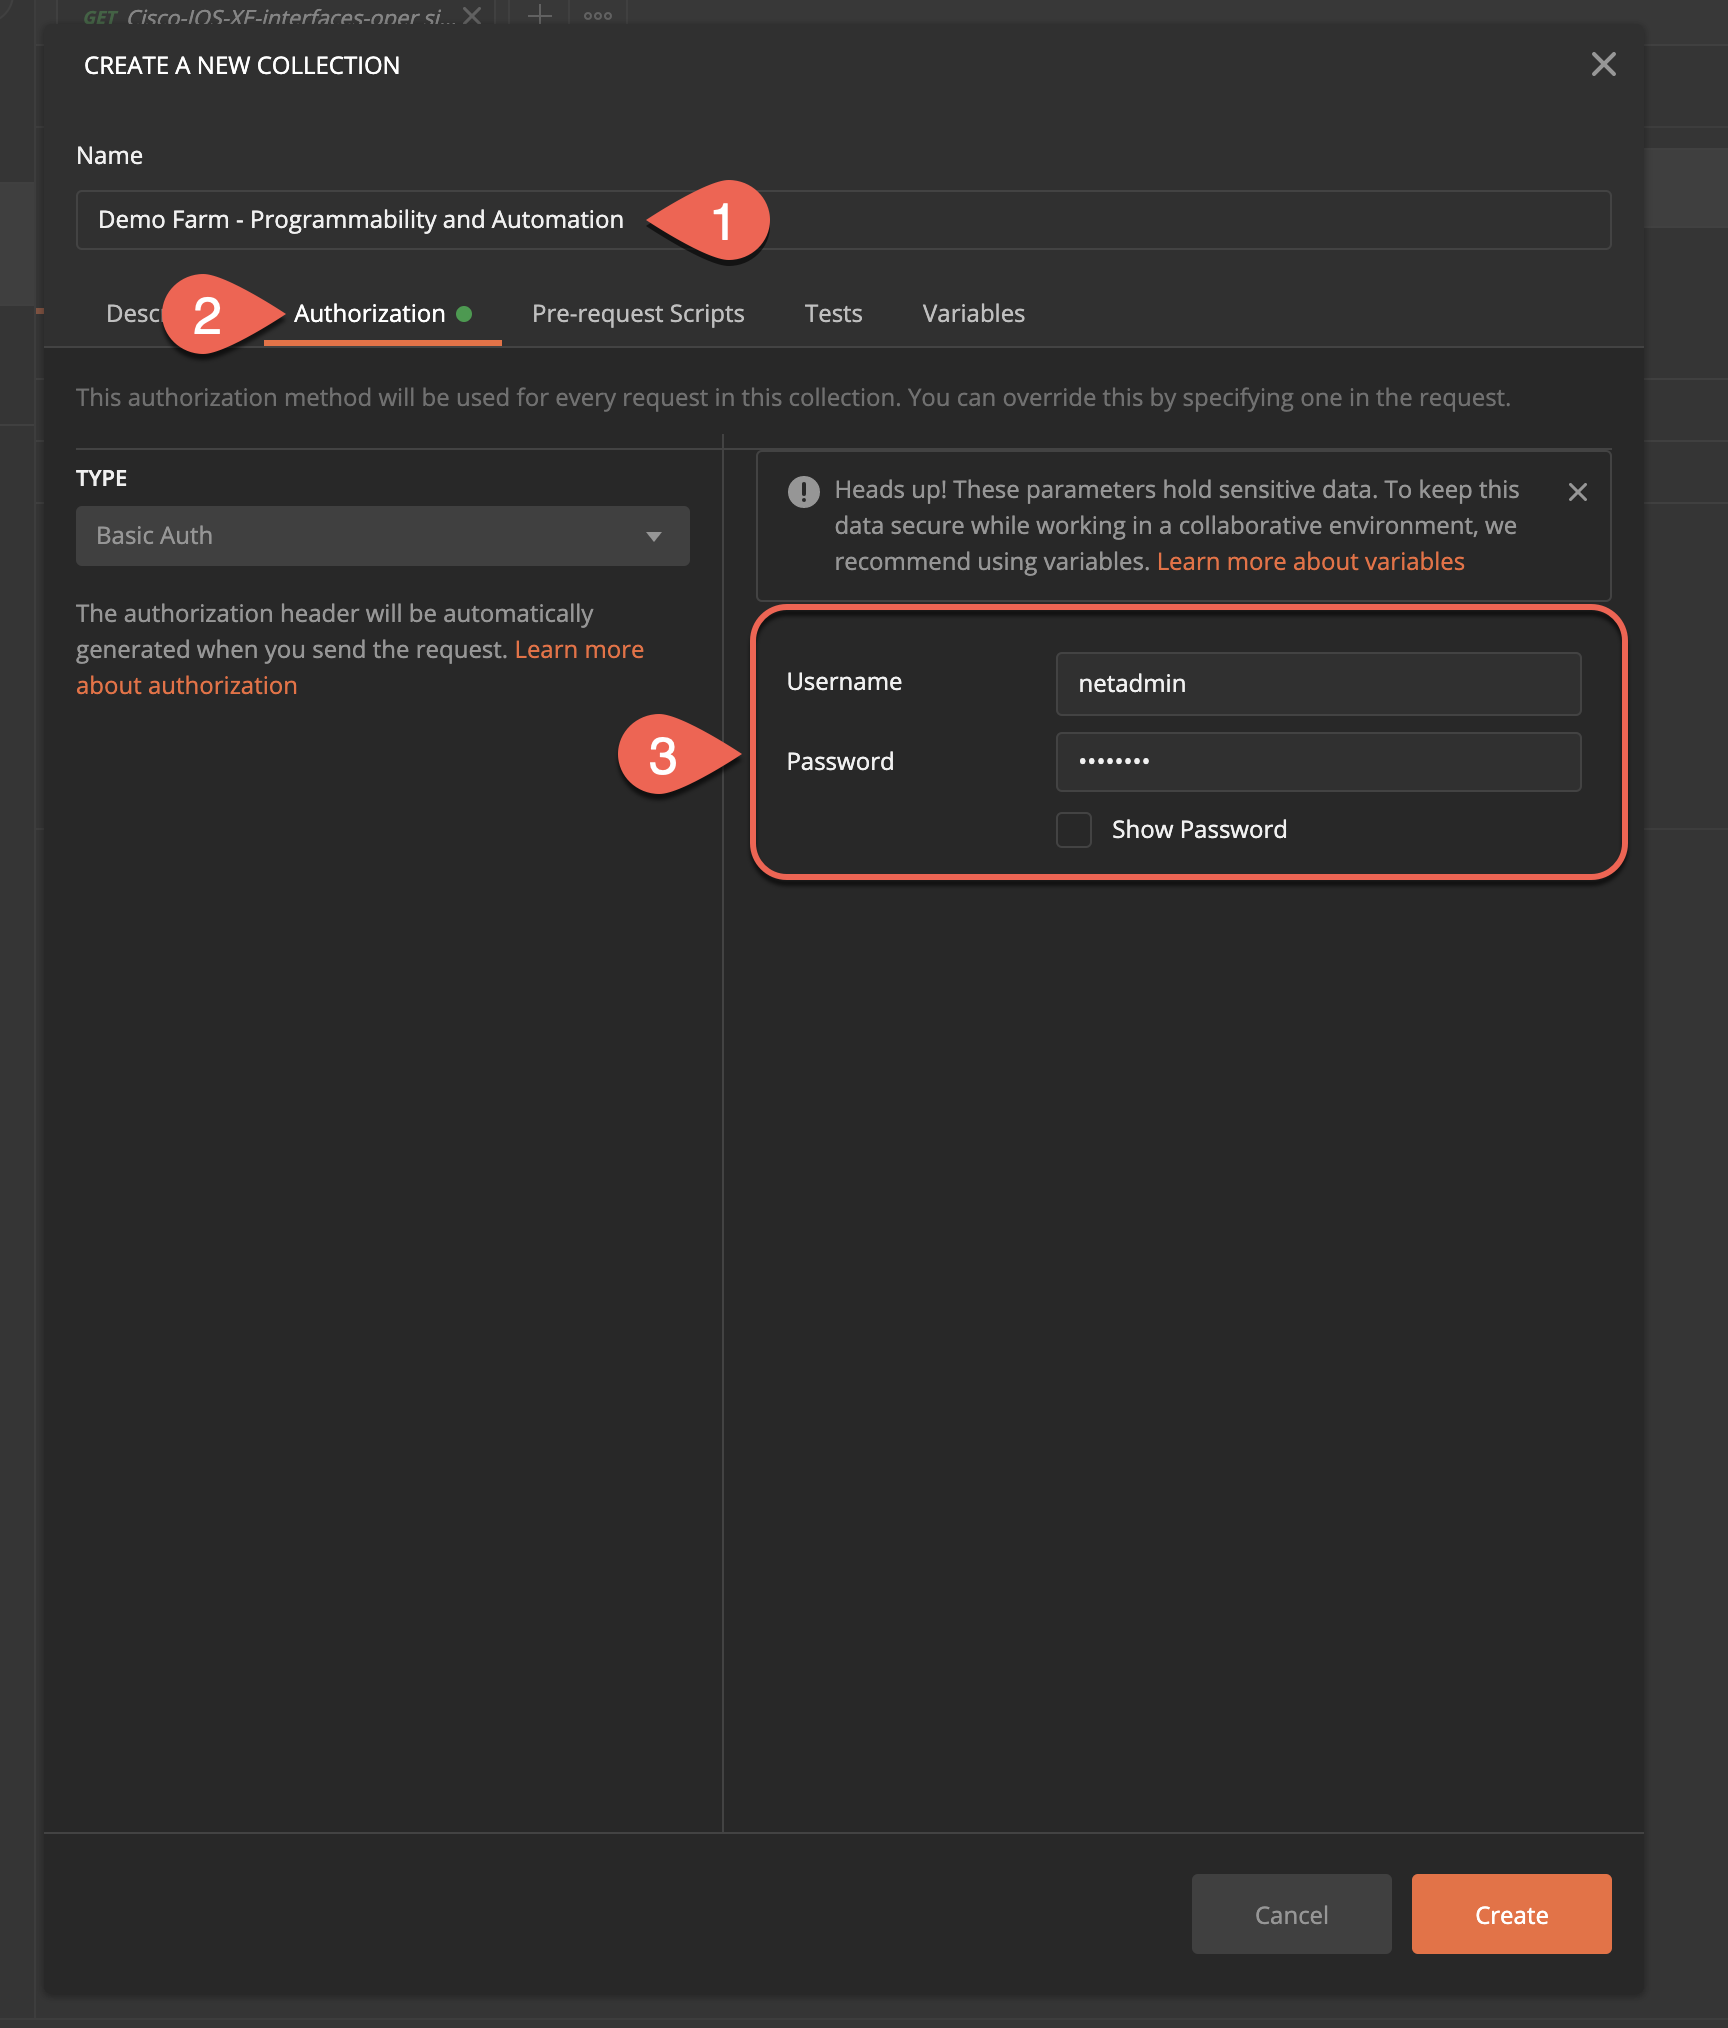
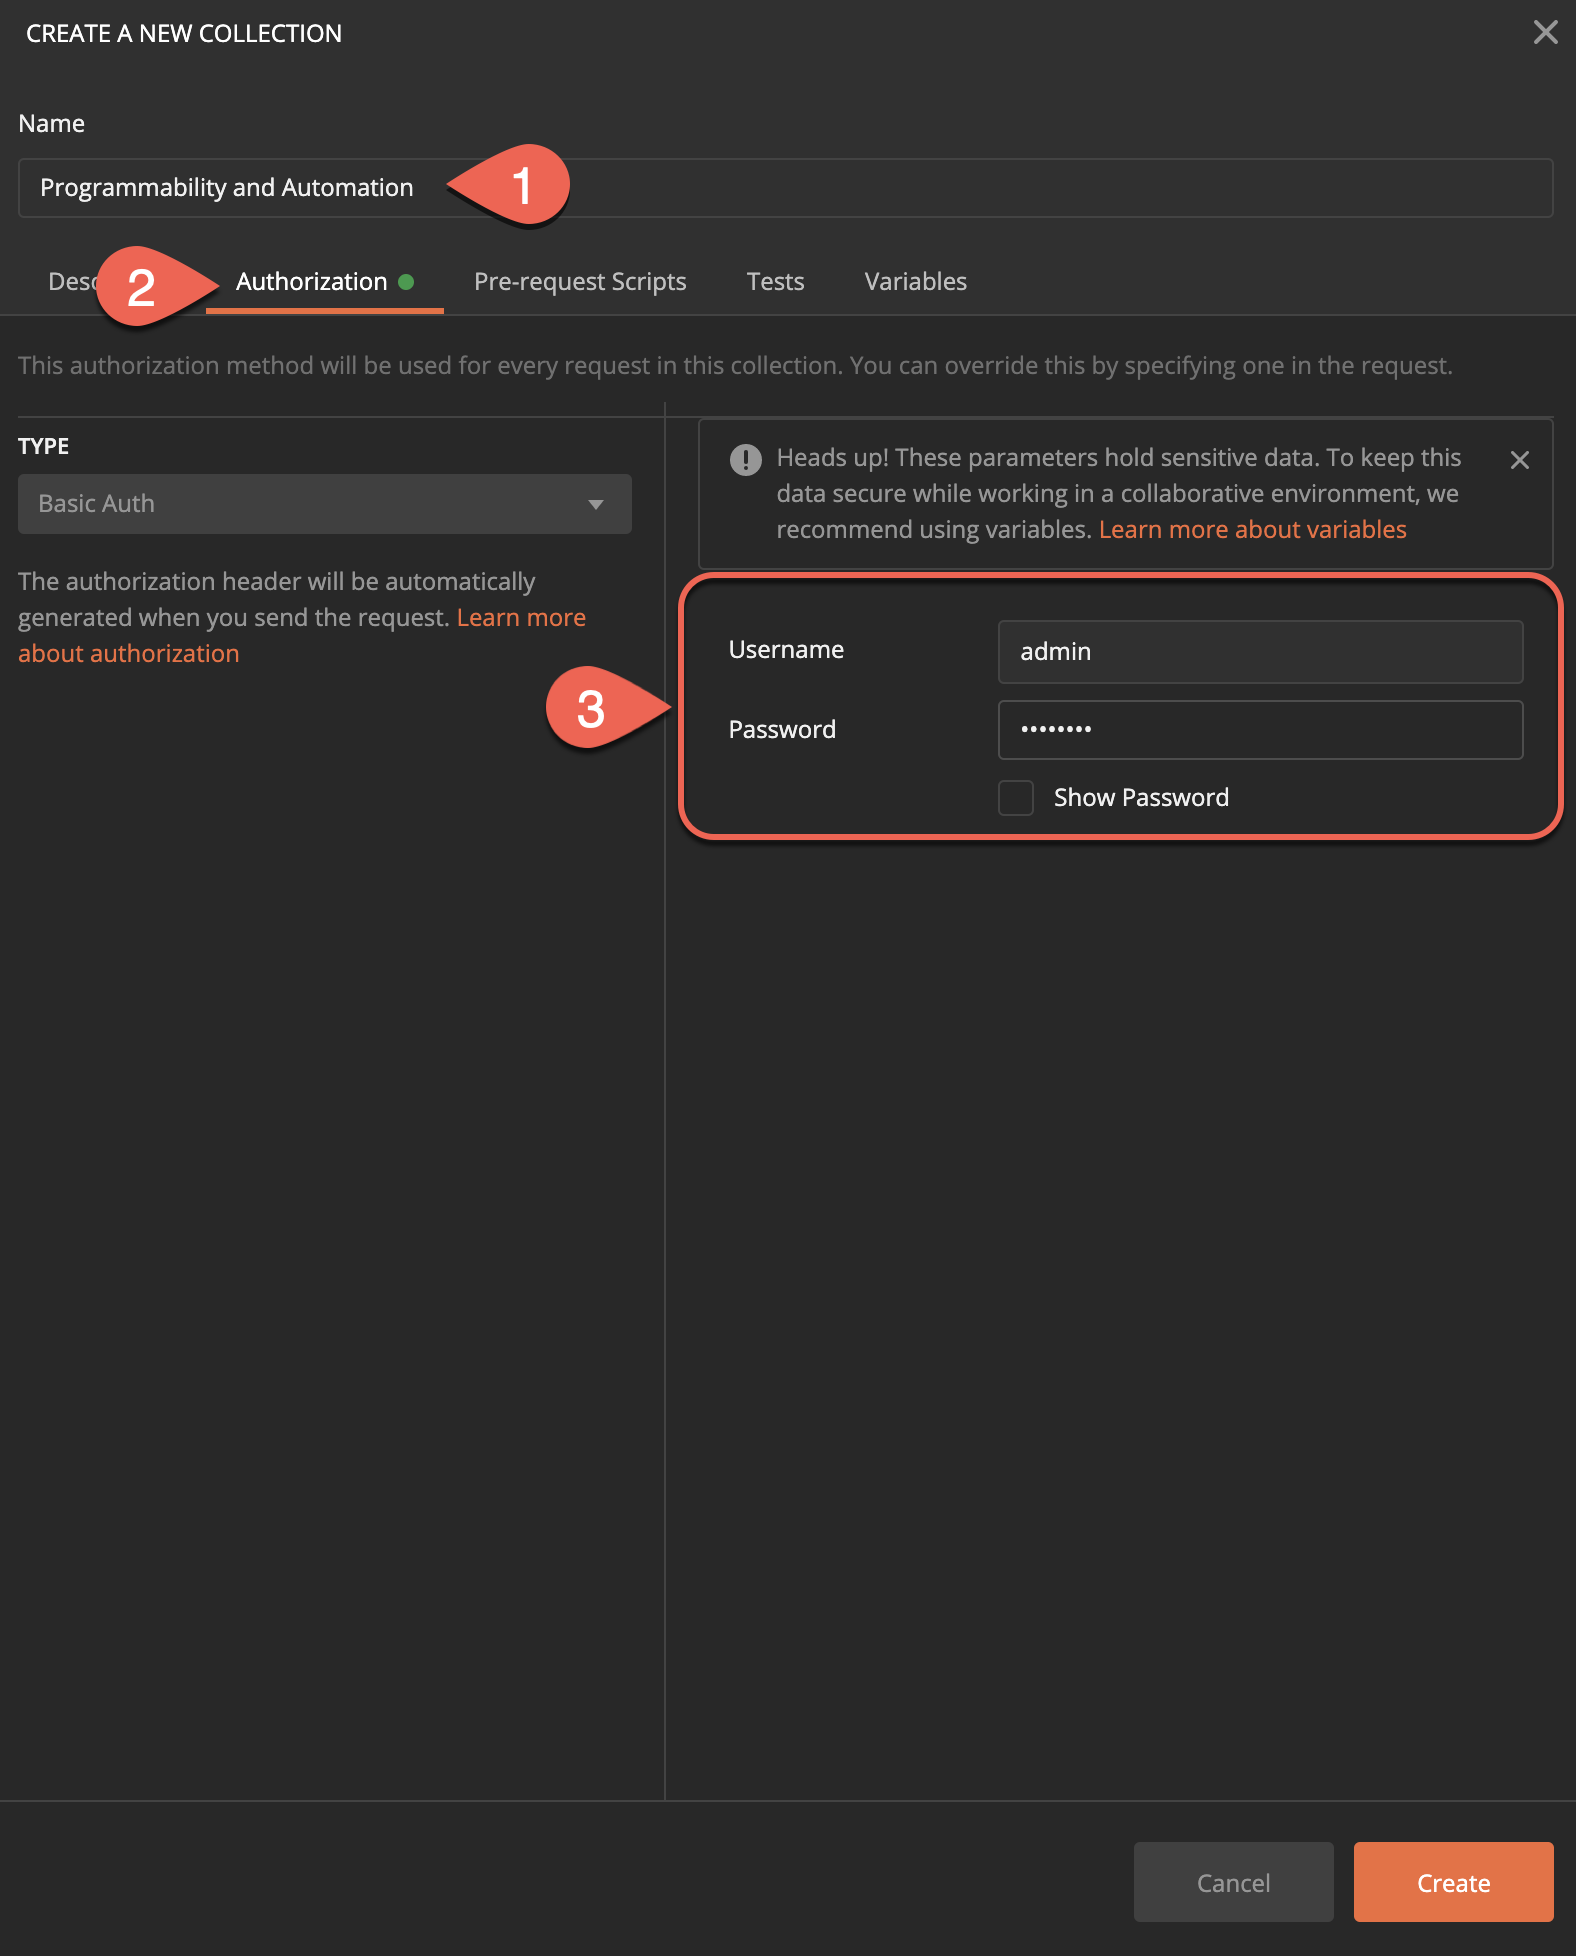
commit

diff --git a/README.md b/README.md
@@ -56,7 +56,7 @@ Navigate to Postman application to create your first Postman Collection
 ![](imgs/Postman_Create_Collection.png)
 
 * In the "Collection Name" Bar enter the following name:
-**Demo Farm - Programmability and Automation**
+**Programmability and Automation**
 * Navigate to the **"Authorization"** tab and select **"Type"** from the drop-down - **"Basic Auth"**
 * Enter Username and Password
 
@@ -65,3 +65,14 @@ Username: admin
 Password: Cisco123
 ```
 ![](imgs/Postman_Create_a_new_Collection_and_Authorization.png)
+
+
+1. Navigate to **"Variables"** tab and create the following new variables that we are going to use in this demo
+```
+      **Variable**      **Initial Value**       **Current Value**
+        host              10.1.1.5.               10.1.1.5.
+        username          admin                   admin
+        password          Cisco123                Cisco123
+```
+
+2. Select **"Create"**
